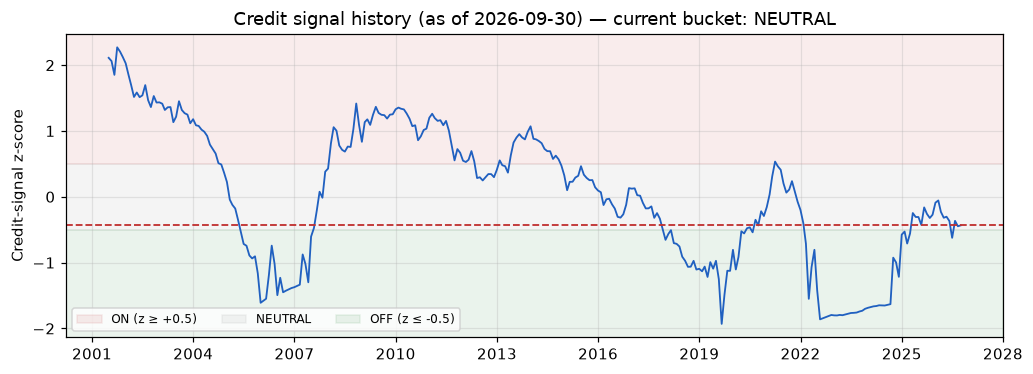
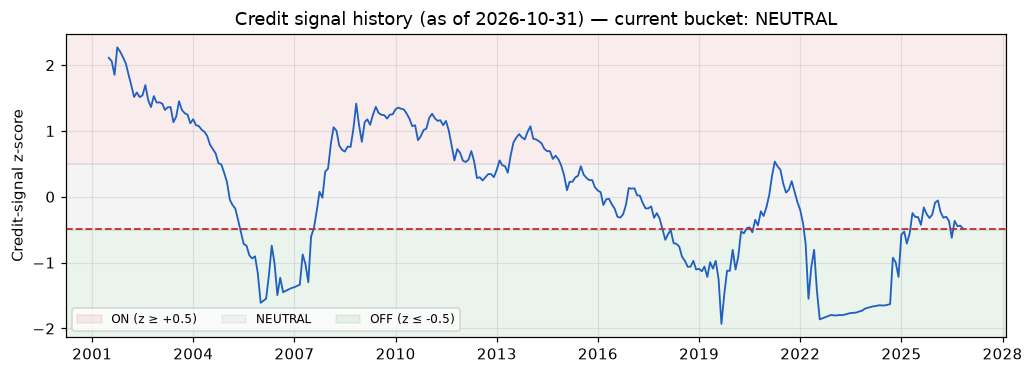
Monthly refresh 2026-11-01

diff --git a/docs/index.html b/docs/index.html
@@ -1,6 +1,6 @@
 <!doctype html>
 <html><head><meta charset="utf-8">
-<title>PP + GEP Credit Overlay — 2026-09-30</title>
+<title>PP + GEP Credit Overlay — 2026-10-31</title>
 <style>
 body{font-family:-apple-system,BlinkMacSystemFont,Helvetica,Arial,sans-serif;
      max-width:1100px;margin:20px auto;padding:0 20px;color:#222;line-height:1.45}
@@ -22,12 +22,12 @@ img{max-width:100%;height:auto;margin:10px 0}
 <h1>Barbell Permanent Portfolio + GEP Credit Overlay</h1>
 <div style="color:#666;font-size:12px">Base: 25 SPY / 10 TLT / 15 SHY / 25 GLD / 25 TIP &nbsp;·&nbsp;
 HYG tactical tilt from TIP</div>
-<div class="num">As of <b>2026-09-30</b> &nbsp;·&nbsp; generated 2026-10-01 14:12</div>
+<div class="num">As of <b>2026-10-31</b> &nbsp;·&nbsp; generated 2026-11-01 14:06</div>
 
 <div class="banner bucket-neutral">
 <b>Current signal: NEUTRAL</b> &nbsp;·&nbsp;
-credit-signal z = <b>-0.43</b>
-(raw signal 0.6565; HYG 6M vol 0.0161; 10y-2y +0.41%)
+credit-signal z = <b>-0.48</b>
+(raw signal 0.6293; HYG 6M vol 0.0129; 10y-2y +0.38%)
 <br>
 Rule: z ≥ +0.5 → ON (HYG 15% from TIP);
 −0.5 &lt; z &lt; +0.5 → NEUTRAL (HYG 7.5% / TIP 17.5%);
@@ -83,21 +83,21 @@ returns higher.</li>
 <table class="num">
 <tr><th>Component</th><th>Current value</th></tr>
 <tr><td>HYG monthly return std (trailing 6 months), <code>vol_6m</code></td>
-    <td>0.0161</td></tr>
+    <td>0.0129</td></tr>
 <tr><td>T10Y2Y term spread (FRED, month-end)</td>
-    <td>+0.41% pts</td></tr>
+    <td>+0.38% pts</td></tr>
 <tr><td>max(T10Y2Y, 0)</td>
-    <td>0.4100</td></tr>
+    <td>0.3800</td></tr>
 <tr><td>sqrt of the above</td>
-    <td>0.6403</td></tr>
+    <td>0.6164</td></tr>
 <tr><td><b>Raw signal = vol_6m + sqrt(…)</b></td>
-    <td><b>0.6565</b></td></tr>
+    <td><b>0.6293</b></td></tr>
 <tr><td>Expanding-window mean μ (all months since 2008)</td>
-    <td>0.8894</td></tr>
+    <td>0.8886</td></tr>
 <tr><td>Expanding-window stdev σ</td>
-    <td>0.5357</td></tr>
+    <td>0.5351</td></tr>
 <tr><td><b>z = (raw − μ) / σ</b></td>
-    <td><b>-0.43</b></td></tr>
+    <td><b>-0.48</b></td></tr>
 <tr><td>Bucket rule</td><td>z ≥ +0.5 → ON (15 HYG / 10 TIP); −0.5 < z < +0.5 → NEUTRAL (7.5/17.5); z ≤ −0.5 → OFF (0/25)</td></tr>
 <tr><td><b>Current bucket</b></td><td><b>NEUTRAL</b></td></tr>
 </table>
